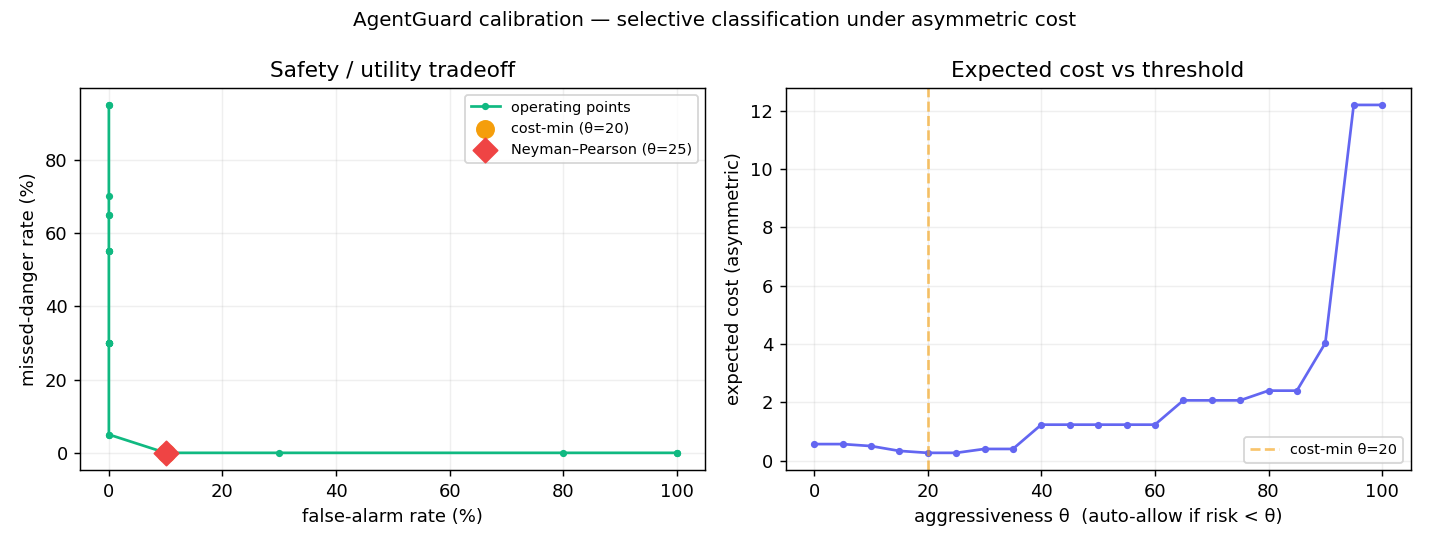
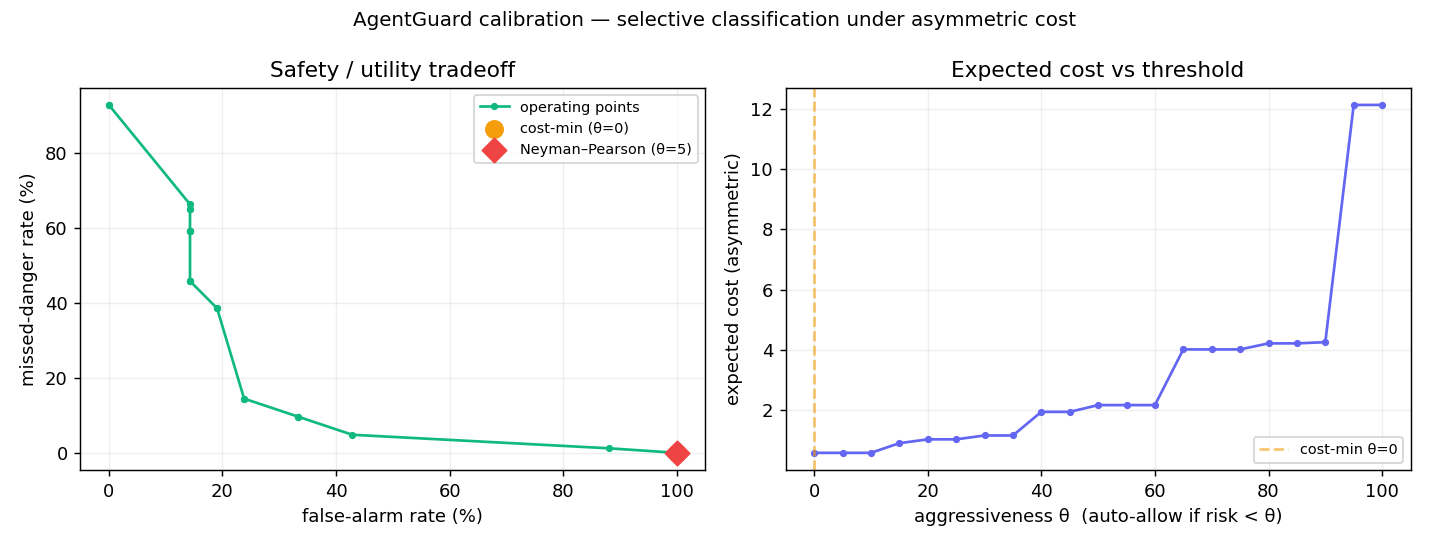
feature: harden eval dataset to 125 cases + re-run apparatus with real numbers
Step 1+2 of the paper trajectory. Replace the 30 mostly-obvious rows with 125 hand-
labeled cases weighted to HARD ones: 54 ambiguous-middle, 23 obfuscated/adversarial
(base64 rm -rf, homoglyph 'main', path traversal, exfil, pipe-to-shell), 16 scary-but-
benign false-alarm traps (rm -rf node_modules, .env.example).

Re-ran the apparatus (real LLM scoring, ~pennies). Honest findings, now in the docs:
- noise floor: Fleiss kappa = 0.52 (moderate, stable vs difficulty); pragmatic persona
  labeled 87 SAFE vs cautious's 45 -> the risk-tolerance axis made visible.
- calibration: on hard inputs the guard CANNOT safely auto-decide -- cost-min collapses to
  'escalate ~everything' (0% miss needs ~100% false-alarm; AURC 0.27 -> 0.37). This
  empirically MOTIVATES the endogenous-expert thesis (can't filter -> forced onto the human).

Updated README/ROADMAP/EVAL/RESEARCH/PAPER with the real numbers; regenerated calibration.png.
44 tests pass.

diff --git a/README.md b/README.md
@@ -41,9 +41,9 @@ python -m eval.calibrate --plot     # also writes eval/calibration.png
 
 ![AgentGuard calibration curve — safety/utility tradeoff and expected cost vs threshold](eval/calibration.png)
 
-On the current **30-row hand-labeled set** (small, reported as such — not a published benchmark), the LLM-scored guardian hits a sweet spot at **0% dangerous-miss with ~10% false-alarm**, and the curve shows exactly what each click of "more permissive" costs in missed danger. That's the artifact: *pick your risk tolerance with data, not vibes.*
+On a **125-action hand-labeled set** deliberately weighted to *hard* cases — ambiguous-middle, obfuscated/adversarial (base64 `rm -rf`, homoglyph `maín`, path traversal, exfil), and scary-but-benign traps (small, reported as such — not a published benchmark) — the curve tells the honest story: against adversarial/ambiguous inputs the guard **cannot safely auto-decide** — reaching 0% dangerous-miss forces escalating almost everything (cost-minimizing policy ≈ "ask the human about everything"). That's the artifact *and* the finding: you read the guard's real operating limits off the curve with data — and on hard inputs it can't filter safely, which is exactly what forces high escalation onto a human (→ the research direction below).
 
-**The noise floor — why a single "ground truth" is a lie.** "Is this action risky?" is *subjective*: even careful reviewers disagree, so a guard can't be scored against one objective label. `python -m eval.noise_floor` has three LLM-persona reviewers (cautious / pragmatic / strict-compliance) label the set and reports **Fleiss' κ ≈ 0.53** — only *moderate* agreement. That's the *irreducible* disagreement, and it's the honest yardstick: a guard that agrees with reviewers as often as they agree with each other is at "human" level. *(Personas are a **proxy** for human annotators — reported as such, not the true human floor.)*
+**The noise floor — why a single "ground truth" is a lie.** "Is this action risky?" is *subjective*: even careful reviewers disagree, so a guard can't be scored against one objective label. `python -m eval.noise_floor` has three LLM-persona reviewers (cautious / pragmatic / strict-compliance) label the 125-action set and reports **Fleiss' κ ≈ 0.52** — only *moderate* agreement, and the *pragmatic* reviewer labeled **87 actions SAFE vs the cautious one's 45** (that gap **is** the risk-tolerance axis). That's the *irreducible* disagreement, and it's the honest yardstick: a guard that agrees with reviewers as often as they agree with each other is at "human" level. *(Personas are a **proxy** for human annotators — reported as such, not the true human floor.)*
 
 > **Precision note (so the claim is exact):** the curve is **operating-point analysis under asymmetric cost** (selective classification) — *not yet formal calibration* in the ECE/reliability sense. "Calibration" is the theme; the claim is precisely the measured tradeoff + noise floor above. Formal calibration metrics (ECE, Brier, reliability diagrams), an adversarial/evasion set, published benchmarks (AgentDojo, InjecAgent), and frontier methods (conformal prediction, trajectory-level guarding) are deeper rigor on the roadmap — see **[Stage 1](ROADMAP.md)**.
 
@@ -51,7 +51,7 @@ On the current **30-row hand-labeled set** (small, reported as such — not a pu
 
 ## Research direction — "Oversight Has a Capacity"
 
-The deepest version of the thesis (full detail → **[docs/RESEARCH.md](docs/RESEARCH.md)**). Agent safety is usually modeled as a *perfect, infinite human* checking a fallible agent against a *ground-truth* "safe." All three are false: the label is **subjective** (no ground truth; measured Fleiss' κ ≈ 0.53), the human is **endogenous** (escalation fatigues them — the guard degrades its own oracle), and the cost is **asymmetric**. So the optimal *when-to-escalate* policy must be **load-aware**, and realized safety is an **inverted-U**:
+The deepest version of the thesis (full detail → **[docs/RESEARCH.md](docs/RESEARCH.md)**). Agent safety is usually modeled as a *perfect, infinite human* checking a fallible agent against a *ground-truth* "safe." All three are false: the label is **subjective** (no ground truth; measured Fleiss' κ ≈ 0.52), the human is **endogenous** (escalation fatigues them — the guard degrades its own oracle), and the cost is **asymmetric**. So the optimal *when-to-escalate* policy must be **load-aware**, and realized safety is an **inverted-U**:
 
 > **more human oversight can make a system *less* safe — the safety-optimal guard escalates *below* the human's capacity.**
 

diff --git a/docs/RESEARCH.md b/docs/RESEARCH.md
@@ -13,7 +13,7 @@ Agent safety is almost always modeled as a **perfect, infinite human** checking 
 false, and the failure of all three is the contribution:
 
 1. **No ground truth.** "Is this action too risky to auto-run?" is a *subjective* judgment;
-   even careful reviewers disagree. We measure it — Fleiss' κ ≈ 0.53 (*moderate* agreement)
+   even careful reviewers disagree. We measure it — Fleiss' κ ≈ 0.52 (*moderate* agreement, on the 125-action hardened set)
    on our set (`eval/noise_floor.py`). There is no single correct safety label.
 2. **The human is finite and fatiguing.** Every escalation spends attention and nudges the
    reviewer toward rubber-stamping. The reviewer is **endogenous** to the system: the guard's
@@ -111,7 +111,7 @@ pointless?*
    that turns the simulated result into a measured one.
 
 Prerequisite, shared with everything else: **scale + harden the dataset** (more, and crucially
-*harder / adversarial / ambiguous* cases — not more obvious ones). A 30-row mostly-obvious set
+*harder / adversarial / ambiguous* cases — not more obvious ones). A small or mostly-obvious set
 demonstrates the *instrument*, not a result.
 
 ---
@@ -138,6 +138,6 @@ revocable.
   asymmetric-cost framework (built) + the load-aware / endogenous-expert seam.
 - Every claim ships with **prior-art citations** and either a **measured number** or an explicit
   **"future work."**
-- The current dataset is **small (30 rows) and honestly labeled as such**; current results are
+- The current dataset is **small (125 hand-labeled rows, hardened) and honestly labeled as such**; current results are
   *method demonstrations* until the dataset is scaled and hardened.
 - Stop digging for a bigger earthquake. **Land this one.**

diff --git a/ROADMAP.md b/ROADMAP.md
@@ -7,7 +7,7 @@
 >
 > *Anyone can stop an agent. AgentGuard knows when to — and proves it.*
 
-> **★ The research apex — "Oversight Has a Capacity"** (full detail → [`docs/RESEARCH.md`](docs/RESEARCH.md)). The deepest version of the thesis: the human reviewer is not a perfect oracle — they are **subjective** (no ground-truth "safe" label; measured Fleiss' κ ≈ 0.53) and **endogenous** (escalation fatigues them). So the optimal *when-to-escalate* policy is **load-aware**, and realized safety is an **inverted-U**: *more human oversight can make a system **less** safe, and the safety-optimal guard escalates **below** capacity.* This is *selective classification under asymmetric cost with noisy labels **and an endogenous expert*** — the last clause is the novel seam. (Applies only where the label is subjective, e.g. agent oversight — **not** where there's ground truth like banking.)
+> **★ The research apex — "Oversight Has a Capacity"** (full detail → [`docs/RESEARCH.md`](docs/RESEARCH.md)). The deepest version of the thesis: the human reviewer is not a perfect oracle — they are **subjective** (no ground-truth "safe" label; measured Fleiss' κ ≈ 0.52) and **endogenous** (escalation fatigues them). So the optimal *when-to-escalate* policy is **load-aware**, and realized safety is an **inverted-U**: *more human oversight can make a system **less** safe, and the safety-optimal guard escalates **below** capacity.* This is *selective classification under asymmetric cost with noisy labels **and an endogenous expert*** — the last clause is the novel seam. (Applies only where the label is subjective, e.g. agent oversight — **not** where there's ground truth like banking.)
 
 The MVP is the foundation. Each stage above it adds **one capability** that makes the control plane harder to defeat, more real, or broader in reach. The **calibration of the guard's judgment** (Stage 1) is the moat; everything else is substrate or distribution.
 

diff --git a/docs/EVAL.md b/docs/EVAL.md
@@ -34,7 +34,7 @@ and the deliverable is a **curve**, not an accuracy number.
 
 **Tier 2 — cheap rigor:** inter-annotator **kappa** as the *noise floor* is **built**
 (`eval/noise_floor.py`, `python -m eval.noise_floor`) — three LLM-persona reviewers label the
-set and report Fleiss' κ (≈0.53 today, *moderate* agreement); LLM-persona labels are a **proxy**
+set and report Fleiss' κ (≈0.52 on the 125-action hardened set, *moderate* agreement); LLM-persona labels are a **proxy**
 for human annotators, reported as such. *Planned:* an **adversarial/evasion set** with the gap
 reported; a **policy-as-code CI eval** that fails the build on a safety regression.
 